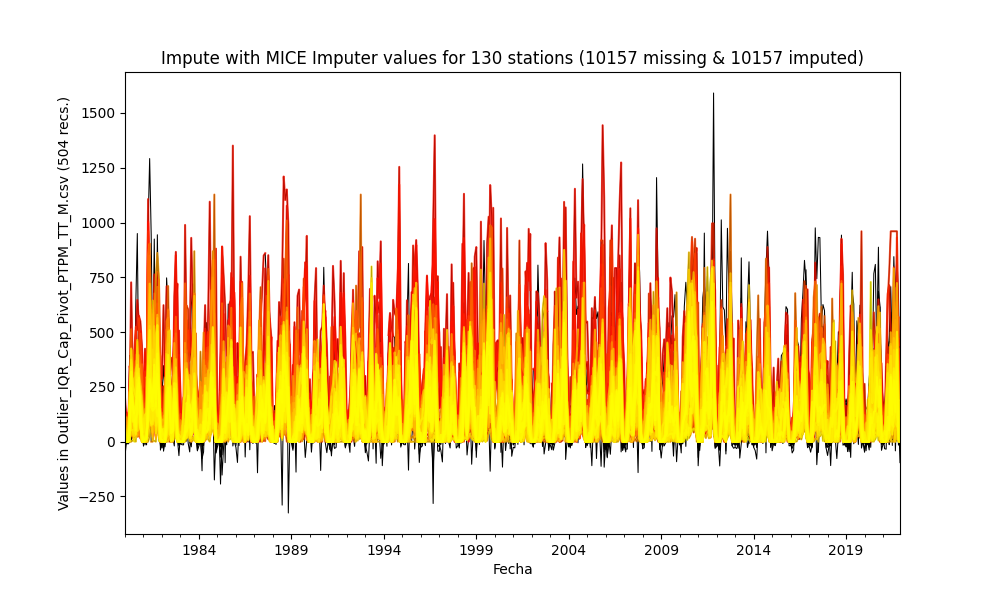
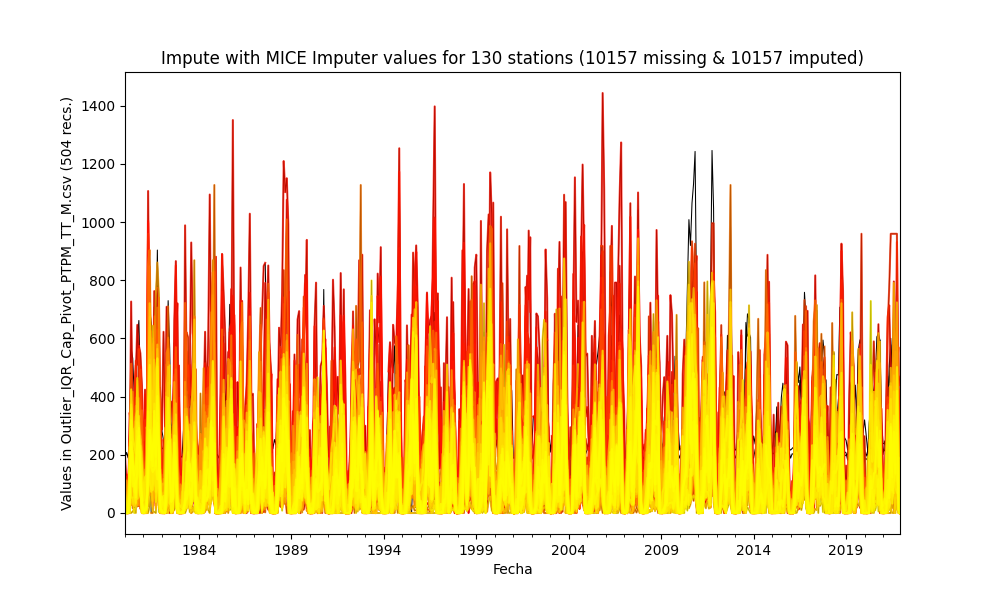
General update.

diff --git a/.src/Impute.py b/.src/Impute.py
@@ -38,6 +38,7 @@ show_plot = False
 only_included = False  # True: let the user run this script only for the stations included in the station_include array. False: process all the stations but not the ones in the station_exclude array.
 station_exclude = ['28017140', '25027020', '25027410', '25027490', '25027330', '25027390', '25027630', '25027360', '25027320', '16067010', '25027420']  # Use ['station1', 'station2', '...',]
 station_include = ['15015020', '15060050', '15060070', '15060080', '15060150']  # Use ['station1', 'station2', '...',]
+min_value = 0  # Minimum value for impute with Multivariate Imputation by Chained Equation - MICE from Scikit Learn. E.g.: 0 for rain, -inf for temperature.
 
 
 # Function for print and show results in a file
@@ -217,7 +218,7 @@ print_log('General statistics table - Imputed file', center_div=True)
 print_log(df_impute.describe().T.to_markdown(), center_div=True)  # .T for transpose
 
 # Method 8 - Impute missing values with Multivariate Imputation by Chained Equation - MICE from Scikit Learn
-imputer = IterativeImputer(estimator=linear_model.BayesianRidge(), n_nearest_features=None, imputation_order='ascending')
+imputer = IterativeImputer(estimator=linear_model.BayesianRidge(), n_nearest_features=5, initial_strategy='mean', min_value=min_value, imputation_order='ascending')
 column_headers = df.columns.values.tolist()
 index_list = list(df.index.values)
 df_impute = imputer.fit_transform(df)

diff --git a/.datasets/IDEAM_Impute/Impute_Outlier_IQR_Cap_Pivot_PTPM_TT_M.csv.md b/.datasets/IDEAM_Impute/Impute_Outlier_IQR_Cap_Pivot_PTPM_TT_M.csv.md
@@ -1,7 +1,7 @@
 ## Impute missing values in time series through statistical methods
 
 * Processed file: [D:/R.LTWB/.datasets/IDEAM_Outlier/Outlier_IQR_Cap_Pivot_PTPM_TT_M.csv](../IDEAM_EDA/Outlier_IQR_Cap_Pivot_PTPM_TT_M.csv)
-* Execution date: 2022-11-11 10:23:51.229419
+* Execution date: 2022-11-11 10:30:20.719539
 * Python version: 3.10.5 (tags/v3.10.5:f377153, Jun  6 2022, 16:14:13) [MSC v.1929 64 bit (AMD64)]
 * Python path: ['D:\\R.LTWB\\.src', 'D:\\R.LTWB', 'D:\\R.GISPython.wiki', 'D:\\R.GISPython', 'D:\\R.HydroTools.wiki']
 * matplotlib version: 3.6.0
@@ -1278,138 +1278,138 @@ General statistics table - Imputed file
 
 <div align="center">
 
-|          |   count |     mean |      std |         min |       25% |      50% |     75% |      max |
-|---------:|--------:|---------:|---------:|------------:|----------:|---------:|--------:|---------:|
-| 15015020 |     504 |  60.0857 |  71.6856 |  -21.477    |   1.58573 |  33.458  |  92.225 |  394.056 |
-| 15060050 |     504 |  88.1223 |  83.4191 |  -11.4148   |  13.3903  |  74      | 138.25  |  489.2   |
-| 15060070 |     504 | 104.722  | 100.303  |  -13.4353   |  17.9926  |  85      | 158.75  |  580.127 |
-| 15060080 |     504 |  98.6011 |  91.4522 |    0        |  15       |  83      | 149     |  520.264 |
-| 15060150 |     504 |  72.1262 |  80.4786 |    0        |   8       |  46.1    | 107.375 |  383     |
-| 15065040 |     504 |  66.6502 |  53.3787 |    0        |  18.0053  |  61.65   | 102.076 |  237.7   |
-| 16050240 |     504 | 177.105  | 120.162  |    0        |  88       | 159      | 242     |  792.155 |
-| 16060010 |     504 | 304.344  | 206.676  |    0        | 146.25    | 284.5    | 426.25  | 1005     |
-| 16070010 |     504 | 406.418  | 256.33   |    0        | 205       | 394      | 566.5   | 1444     |
-| 16070020 |     504 | 397.301  | 275.253  | -132.869    | 169.191   | 369.635  | 581.494 | 1591.05  |
-| 16070030 |     504 | 369.688  | 227.174  |    0        | 210.692   | 343.05   | 497     | 1351     |
-| 16070040 |     504 | 354.343  | 205.638  |    8        | 207.5     | 341.5    | 484.902 | 1173     |
-| 23210020 |     504 | 145.888  | 141.723  | -325.495    |  38.951   | 122.526  | 222.229 |  649     |
-| 23215050 |     504 | 235.319  | 210.202  |  -22.8967   |  75.875   | 189.791  | 333.375 | 1094.2   |
-| 23215060 |     504 | 145.918  | 102.969  |   -4.97328  |  60.9708  | 133.844  | 211.898 |  497.425 |
-| 25020090 |     504 | 163.326  | 142.712  |    0        |  44.925   | 140.7    | 247.125 |  808.61  |
-| 25020220 |     504 | 126.071  | 101.541  |    0        |  43.45    | 111.25   | 189.725 |  534     |
-| 25020230 |     504 | 164.14   | 139.97   |  -24.0654   |  55.75    | 133.75   | 240.5   |  799.943 |
-| 25020240 |     504 | 136.638  | 120.229  |    0        |  43       | 113.5    | 194.25  |  735     |
-| 25020250 |     504 | 142.901  | 118.54   |    0        |  48       | 118.45   | 209.35  |  644.3   |
-| 25020260 |     504 | 222.846  | 169.086  |    0        |  90       | 206      | 319.25  |  996.014 |
-| 25020270 |     504 | 170.036  | 145.094  |    0        |  48       | 136.5    | 263.25  |  627     |
-| 25020280 |     504 | 127.65   | 116.687  |   -5.01528  |  34.75    | 104      | 185.931 |  661.486 |
-| 25020650 |     504 | 156.947  | 165.658  | -112.501    |  32.925   | 119.1    | 231.05  |  959.998 |
-| 25020660 |     504 | 155.168  | 132.43   |    0        |  48.825   | 126      | 230     |  679     |
-| 25020670 |     504 | 147.453  | 128.72   |    0        |  33.75    | 118.5    | 241.125 |  727.269 |
-| 25020690 |     504 | 153.358  | 146.017  |    0        |  37       | 112      | 233.5   |  753     |
-| 25020870 |     504 | 155.885  | 134.889  |    0        |  45       | 136.5    | 232.25  |  835     |
-| 25020880 |     504 | 195.422  | 160.182  |    0        |  61.75    | 171.47   | 291     |  764     |
-| 25020890 |     504 | 158.182  | 128.56   |   -5.52062  |  49.75    | 135      | 247.061 |  593     |
-| 25020900 |     504 | 132.023  | 114.323  |    0        |  30       | 106.5    | 207.25  |  510     |
-| 25020920 |     504 | 137.773  | 155.516  |  -13.6867   |  33       |  90.5    | 192.025 |  918.023 |
-| 25021040 |     504 | 161.736  | 138.977  |    0        |  45       | 138.5    | 245.25  |  739     |
-| 25021090 |     504 | 161.039  | 140.389  |    0        |  42.358   | 129      | 249.456 |  680     |
-| 25021200 |     504 | 193.074  | 168.725  |    0        |  50.75    | 153      | 290     |  934     |
-| 25021240 |     504 | 169.907  | 147.9    |    0        |  46.875   | 141.85   | 265     |  696.6   |
-| 25021320 |     504 | 162.279  | 141.021  |    0        |  50       | 134      | 244     |  744     |
-| 25021380 |     504 | 169.115  | 139.342  |  -11.2129   |  54       | 142.296  | 260.359 |  724     |
-| 25021500 |     504 |  99.0213 |  74.5601 |    0        |  41       |  88      | 144.973 |  368     |
-| 25021540 |     504 | 180.113  | 144.292  |    0        |  68       | 149.5    | 264.775 |  721     |
-| 25021580 |     504 | 147.901  | 115.939  |  -16.3849   |  53.1902  | 128.041  | 214.033 |  569.101 |
-| 25021590 |     504 | 138.645  | 114.145  |  -22.1113   |  44.8991  | 118.107  | 209.385 |  543.855 |
-| 25021620 |     504 | 115.356  |  91.7848 | -152.351    |  45.75    | 101.5    | 161     |  534.242 |
-| 25021630 |     504 | 112.025  |  77.2013 |    0        |  50       | 101      | 166     |  370     |
-| 25021640 |     504 | 144.601  | 130.495  |   -9.64008  |  38.525   | 116.5    | 220.625 |  717     |
-| 25021650 |     504 | 130.75   | 123.103  |   -0.243837 |  35.2249  | 103.5    | 191.05  |  715.84  |
-| 25025090 |     504 | 163.36   | 134.005  |   -7.46037  |  53.003   | 136.25   | 245.05  |  609.3   |
-| 25025250 |     504 | 136.963  | 115.628  |   -9.47291  |  38.85    | 117.99   | 196.7   |  549.9   |
-| 25025300 |     504 | 109.841  |  91.9049 |  -35.2053   |  34.875   |  90.9    | 163.4   |  459.2   |
-| 25025330 |     504 | 173.46   | 132.829  |  -49.3723   |  66.725   | 151.663  | 262.5   |  693     |
-| 28010020 |     504 |  76.5867 |  77.532  |  -10.4633   |  15       |  57      | 120     |  478.212 |
-| 28010040 |     504 | 151.245  | 128.27   |    0        |  48.075   | 130.1    | 218.375 |  748.7   |
-| 28010070 |     504 | 117.492  | 111.632  |  -70.5972   |  30.75    |  97.8562 | 181     |  682.783 |
-| 28010090 |     504 |  92.9368 |  93.1213 |   -7.73381  |  10       |  73.5    | 138.11  |  520.861 |
-| 28010130 |     504 | 233.941  | 204.993  |  -91.4231   |  65.9922  | 193.653  | 344.25  | 1009     |
-| 28010140 |     504 | 134.226  | 130.017  | -116.376    |  28.6638  | 100.229  | 203.181 |  630     |
-| 28010200 |     504 |  83.2441 |  88.7909 |  -15.0382   |   8.025   |  56.7683 | 131.9   |  488.941 |
-| 28010280 |     504 |  63.3444 |  44.6551 |   -8.06218  |  24.902   |  60.0707 |  89.53  |  197.63  |
-| 28010340 |     504 |  98.99   |  91.986  |    0        |  16.975   |  82      | 152.25  |  457     |
-| 28010360 |     504 | 168.474  | 202.059  |  -27.0738   |  19.75    |  99.45   | 249.992 | 1127.8   |
-| 28010370 |     504 | 108.795  |  94.3056 |    0        |  26       |  88.5    | 171.25  |  508     |
-| 28015070 |     504 |  98.59   |  84.1853 |    0        |  28.475   |  88.4    | 151.225 |  456.1   |
-| 28020080 |     504 | 114.779  | 101.99   |   -2.22589  |  34.75    |  96      | 170.25  |  590.828 |
-| 28020150 |     504 | 108.322  |  87.3813 |  -14.713    |  41.7868  |  91      | 158.388 |  518     |
-| 28020230 |     504 | 130.519  | 113.689  |  -47.3926   |  35       | 116.537  | 188.16  |  675.7   |
-| 28020310 |     504 | 189.487  | 140.588  |    0        |  74.7368  | 162.966  | 279.125 |  723     |
-| 28020410 |     504 | 109.061  |  99.1266 |  -34.6624   |  29       |  89      | 158     |  565.7   |
-| 28020420 |     504 | 120.323  | 105.004  |    0        |  35       | 102      | 181.054 |  567     |
-| 28020440 |     504 | 126.246  | 101.342  |    0        |  45       | 108.9    | 189.5   |  610.6   |
-| 28020460 |     504 | 129.484  | 108.783  |    0        |  46.75    | 106.5    | 194     |  591     |
-| 28020590 |     504 | 105.127  |  89.7036 |   -6.51495  |  30.5     |  86      | 156     |  542     |
-| 28020600 |     504 | 113.015  |  96.231  |  -14.0663   |  35.275   |  90.5    | 174.134 |  552.088 |
-| 28025020 |     504 | 110.611  |  81.795  |    0        |  42.075   | 104.8    | 164.45  |  421.2   |
-| 28025040 |     504 |  86.7153 |  77.064  |  -39.8853   |  26.15    |  70.0794 | 131.091 |  367.844 |
-| 28025070 |     504 | 131.555  | 104.05   |    0        |  47.95    | 114.7    | 194.45  |  550.8   |
-| 28025080 |     504 | 126.652  |  95.7154 |    0        |  47.25    | 113.578  | 189.637 |  496.9   |
-| 28025090 |     504 | 123.832  |  97.1567 |    0        |  45.55    | 110.5    | 186.375 |  504.6   |
-| 28030190 |     504 |  93.3151 |  86.66   |    0        |  14.475   |  82.8    | 144.55  |  450.8   |
-| 28030220 |     504 |  85.303  |  87.5998 |  -18.8001   |  10       |  63      | 136.664 |  497.601 |
-| 28035010 |     504 | 110.935  |  90.9513 |    0        |  30.475   |  96.5    | 169     |  479.6   |
-| 28035020 |     504 |  97.0834 |  83.262  |   -3.89952  |  21.625   |  83.6    | 150.209 |  464.2   |
-| 28035040 |     504 | 106.808  |  83.5239 |    0        |  34       |  97.45   | 153.45  |  425     |
-| 28040010 |     504 | 177.7    | 149.703  |    0        |  53.75    | 157.5    | 261.25  |  869.048 |
-| 28040030 |     504 | 116.286  | 120.791  |    0        |  29.5     |  90      | 158.25  |  681.291 |
-| 28040060 |     504 | 115.09   | 118.587  | -282.12     |  30       |  90.7263 | 181.533 |  602.735 |
-| 28040070 |     504 | 111.913  |  88.1718 |    0        |  40       | 100      | 165     |  415     |
-| 28040100 |     504 | 144.244  | 107.296  |    0        |  54       | 136.5    | 209     |  635.172 |
-| 28040140 |     504 |  96.2506 |  85.4445 |    0        |  24.4091  |  76.55   | 145     |  435     |
-| 28040150 |     504 | 115.128  |  90.9266 |    0        |  43.75    | 107      | 164     |  541.15  |
-| 28040170 |     504 | 103.748  | 115.607  | -141.134    |  22.5055  |  78.0594 | 163.365 |  559.115 |
-| 28040200 |     504 |  94.9796 |  68.9699 |  -30.3063   |  36       |  93.632  | 138.207 |  374     |
-| 28040270 |     504 | 106.704  |  88.4903 |    0        |  31.9649  |  96.5    | 158.25  |  512.18  |
-| 28040300 |     504 | 115.731  |  96.6793 |    0        |  41       |  97.5    | 163     |  564     |
-| 28040310 |     504 | 117.409  |  94.0441 |  -27.8152   |  40.75    | 107      | 169.25  |  521     |
-| 28040320 |     504 | 124.584  |  96.1615 |    0        |  50.75    | 107      | 174     |  491     |
-| 28040350 |     504 | 110.307  |  98.2992 |    0        |  31.8     |  93.6    | 160.8   |  578     |
-| 28040360 |     504 | 124.389  |  91.6114 |    0        |  52.75    | 116.5    | 174.25  |  552.693 |
-| 28040400 |     504 | 103.69   |  81.9768 |   -7.35568  |  36.7651  |  89      | 147.838 |  398     |
-| 28045010 |     504 | 143.646  | 122.274  |  -71.5829   |  25.2025  | 130.349  | 232.676 |  502.1   |
-| 29060030 |     504 | 111.92   | 119.012  |    0        |   5.75    |  84.1    | 174.25  |  652.526 |
-| 29060040 |     504 | 118.805  | 114.009  |    0        |  27.5     |  95.5    | 172.25  |  639.993 |
-| 29060060 |     504 | 214.668  | 188.579  |    0        |  50       | 183      | 324.882 |  944     |
-| 29060070 |     504 | 198.577  | 159.051  |    0        |  61       | 179      | 306     |  927     |
-| 29060090 |     504 | 109.81   |  77.6537 |    0        |  42.75    | 107      | 168     |  382     |
-| 29060100 |     504 | 130.562  | 109.441  |    0        |  40       | 117.5    | 189     |  665     |
-| 29060120 |     504 |  30.2694 |  55.9905 |    0        |   0       |   6      |  30     |  303.921 |
-| 29060140 |     504 | 131.076  | 151.01   |    0        |   7.75    |  86.5    | 201     |  826.16  |
-| 29060150 |     504 | 136.877  | 133.431  |    0        |  23.5     | 103      | 221     |  737.271 |
-| 29060160 |     504 |  84.0109 | 103.099  |    0        |   0       |  42.2    | 135.95  |  564.2   |
-| 29060170 |     504 |  79.0424 |  92.4026 |    0        |   0       |  46.5    | 134.075 |  505     |
-| 29060180 |     504 | 115.899  | 148.068  |    0        |   0       |  68.7592 | 166.5   |  796.306 |
-| 29060190 |     504 | 107.172  | 113.844  |  -45.6273   |   8.89448 |  76.7521 | 162.206 |  643.811 |
-| 29060200 |     504 | 118.596  | 114.893  |  -30.816    |  22       |  98.5    | 179.131 |  637     |
-| 29060210 |     504 |  69.6776 |  83.4092 |  -14.8502   |   1.075   |  38.95   | 108.15  |  453.599 |
-| 29060220 |     504 | 108.173  | 145.014  | -110.972    |   0       |  64      | 166.22  |  863.413 |
-| 29060230 |     504 |  99.5611 | 105.128  |  -27.4949   |   6       |  74.866  | 157     |  549     |
-| 29060240 |     504 | 103.282  | 126.509  |  -48.2195   |   0       |  67      | 170     |  720.851 |
-| 29060250 |     504 |  82.9484 | 101.897  |    0        |   0       |  51.1    | 121.775 |  546.36  |
-| 29060270 |     504 |  87.0153 |  99.4899 |    0        |   0       |  56.0543 | 132     |  519     |
-| 29060280 |     504 |  69.7379 |  87.5525 |   -3.86506  |   0       |  35.55   | 110.625 |  482.9   |
-| 29060290 |     504 | 110.958  | 116.963  |  -64.3907   |   9.8     |  86      | 173.25  |  627     |
-| 29060310 |     504 |  78.6707 | 109.789  |    0        |   0       |  33      | 128     |  604.211 |
-| 29060330 |     504 | 127.242  | 133.918  |  -40.6646   |  12       |  97.6155 | 201.151 |  615     |
-| 29060340 |     504 | 193.298  | 165.214  |    0        |  53.5     | 166.5    | 284.035 |  875     |
-| 29060350 |     504 | 105.238  | 113.531  |  -17.1848   |   3.15671 |  75      | 168.119 |  626.681 |
-| 29060550 |     504 |  91.7633 | 103.287  |  -30.8429   |   0       |  66.5    | 150.25  |  595.759 |
-| 29060560 |     504 |  98.673  |  97.4833 |  -64.1392   |  20.7783  |  72.5    | 152.191 |  553.117 |
-| 29065010 |     504 |  93.8475 |  94.577  |  -76.8448   |  17.7536  |  75.3686 | 144.757 |  422.748 |
-| 29065020 |     504 |  99.8981 | 105.313  |   -6.64146  |   8.3     |  70.4    | 155.875 |  563.1   |
-| 29065030 |     504 | 117.045  | 117.013  |  -13.2227   |  11.975   |  93.4744 | 178.775 |  637.9   |
+|          |   count |     mean |      std |   min |       25% |      50% |      75% |      max |
+|---------:|--------:|---------:|---------:|------:|----------:|---------:|---------:|---------:|
+| 15015020 |     504 |  60.2634 |  72.3221 |     0 |   1.175   |  30.2437 |  92.4    |  394.056 |
+| 15060050 |     504 |  87.9407 |  83.0538 |     0 |  14.875   |  74      | 138.05   |  489.2   |
+| 15060070 |     504 |  99.5628 |  94.6656 |     0 |  23.3087  |  84.7922 | 145.069  |  580.127 |
+| 15060080 |     504 |  98.4645 |  91.3294 |     0 |  15       |  83      | 148.25   |  520.264 |
+| 15060150 |     504 |  72.1262 |  80.4786 |     0 |   8       |  46.1    | 107.375  |  383     |
+| 15065040 |     504 |  64.74   |  49.7646 |     0 |  24.975   |  57.3316 |  93.3915 |  237.7   |
+| 16050240 |     504 | 178.47   | 113.88   |     0 |  91       | 160.72   | 241.25   |  792.155 |
+| 16060010 |     504 | 304.344  | 206.676  |     0 | 146.25    | 284.5    | 426.25   | 1005     |
+| 16070010 |     504 | 404.803  | 254.378  |     0 | 214.5     | 388.517  | 560.75   | 1444     |
+| 16070020 |     504 | 407.32   | 222.629  |     0 | 231.512   | 372.222  | 540.828  | 1246.48  |
+| 16070030 |     504 | 392.442  | 212.08   |     0 | 246.991   | 363.312  | 510.038  | 1351     |
+| 16070040 |     504 | 353.899  | 203.557  |     8 | 215       | 341      | 476.5    | 1173     |
+| 23210020 |     504 | 154.231  | 119.887  |     0 |  58.95    | 133.248  | 215.126  |  649     |
+| 23215050 |     504 | 234.968  | 208.891  |     0 |  76.3     | 189.8    | 332.625  | 1094.2   |
+| 23215060 |     504 | 134.694  |  87.7659 |     0 |  60.5967  | 125.056  | 190.282  |  422     |
+| 25020090 |     504 | 163.268  | 142.538  |     0 |  44.925   | 142.5    | 246.7    |  808.61  |
+| 25020220 |     504 | 126.067  | 101.539  |     0 |  43.45    | 111.25   | 189.725  |  534     |
+| 25020230 |     504 | 164.719  | 139.181  |     0 |  56.675   | 135      | 239.1    |  799.943 |
+| 25020240 |     504 | 136.547  | 120.146  |     0 |  43       | 113.5    | 194      |  735     |
+| 25020250 |     504 | 143.121  | 118.512  |     0 |  48.15    | 118.45   | 209.35   |  644.3   |
+| 25020260 |     504 | 223.22   | 169.362  |     0 |  90       | 208      | 319      |  996.014 |
+| 25020270 |     504 | 168.935  | 143.958  |     0 |  48       | 136.5    | 262      |  627     |
+| 25020280 |     504 | 128.368  | 117.032  |     0 |  37.525   | 104      | 186      |  661.486 |
+| 25020650 |     504 | 152.935  | 154.863  |     0 |  39.65    | 121.406  | 217.132  |  959.998 |
+| 25020660 |     504 | 155.3    | 132.332  |     0 |  49.725   | 126      | 230      |  679     |
+| 25020670 |     504 | 148.858  | 127.743  |     0 |  35.75    | 122      | 241.125  |  727.269 |
+| 25020690 |     504 | 153.358  | 146.017  |     0 |  37       | 112      | 233.5    |  753     |
+| 25020870 |     504 | 155.94   | 134.816  |     0 |  45       | 136.5    | 229.841  |  835     |
+| 25020880 |     504 | 196.261  | 160.231  |     0 |  61.75    | 172      | 296      |  764     |
+| 25020890 |     504 | 158.249  | 127.603  |     0 |  51       | 135.223  | 247      |  593     |
+| 25020900 |     504 | 132.043  | 114.103  |     0 |  30       | 106.5    | 207      |  510     |
+| 25020920 |     504 | 135.8    | 150.289  |     0 |  33.6708  |  97.85   | 183.125  |  918.023 |
+| 25021040 |     504 | 161.93   | 138.952  |     0 |  45       | 139      | 245.25   |  739     |
+| 25021090 |     504 | 160.634  | 141.261  |     0 |  43.425   | 127.363  | 243.5    |  680     |
+| 25021200 |     504 | 192.161  | 166.687  |     0 |  51       | 153      | 290.25   |  934     |
+| 25021240 |     504 | 169.907  | 147.9    |     0 |  46.875   | 141.85   | 265      |  696.6   |
+| 25021320 |     504 | 162.564  | 141.009  |     0 |  50       | 134      | 244.25   |  744     |
+| 25021380 |     504 | 170.117  | 139.272  |     0 |  54.75    | 141      | 263.5    |  724     |
+| 25021500 |     504 |  99.2167 |  74.1709 |     0 |  41       |  88      | 145      |  368     |
+| 25021540 |     504 | 180.153  | 144.049  |     0 |  68       | 149.5    | 265      |  721     |
+| 25021580 |     504 | 148.4    | 102.835  |     0 |  61.1617  | 133      | 214.214  |  494     |
+| 25021590 |     504 | 128.477  |  94.4378 |     0 |  50.2685  | 115.321  | 189.957  |  512.2   |
+| 25021620 |     504 | 116.422  |  88.9622 |     0 |  47.5     | 103      | 161      |  534.242 |
+| 25021630 |     504 | 110.769  |  75.5572 |     0 |  53.75    |  99.181  | 161.25   |  370     |
+| 25021640 |     504 | 146.924  | 128.902  |     0 |  42.9     | 119.15   | 214.5    |  717     |
+| 25021650 |     504 | 132.514  | 122.423  |     0 |  38.675   | 106      | 193.094  |  715.84  |
+| 25025090 |     504 | 162.599  | 132.515  |     0 |  52       | 135.95   | 245.05   |  609.3   |
+| 25025250 |     504 | 135.736  | 112.905  |     0 |  39.875   | 118.85   | 196.6    |  549.9   |
+| 25025300 |     504 | 110.199  |  91.3332 |     0 |  36       |  91.2764 | 163.4    |  459.2   |
+| 25025330 |     504 | 168.174  | 121.172  |     0 |  71.622   | 150.918  | 249.54   |  693     |
+| 28010020 |     504 |  80.6015 |  79.5595 |     0 |  15.1638  |  59.7285 | 125.5    |  478.212 |
+| 28010040 |     504 | 151.706  | 128.282  |     0 |  48.075   | 130.1    | 219.875  |  748.7   |
+| 28010070 |     504 | 115.664  | 102.742  |     0 |  35.975   |  99.3    | 177.878  |  581     |
+| 28010090 |     504 |  92.3432 |  92.2099 |     0 |  10       |  73.5    | 137.25   |  520.861 |
+| 28010130 |     504 | 226.357  | 189.512  |     0 |  82.306   | 191.221  | 327.658  | 1009     |
+| 28010140 |     504 | 136.017  | 114.135  |     0 |  43.1872  | 110.855  | 197.314  |  630     |
+| 28010200 |     504 |  83.1173 |  87.8538 |     0 |   8.35    |  59.1    | 130.1    |  488.941 |
+| 28010280 |     504 |  55.6933 |  47.0121 |     0 |  14.299   |  49.3248 |  79.2619 |  265.439 |
+| 28010340 |     504 |  99.0554 |  91.7658 |     0 |  19.5     |  82      | 152.776  |  457     |
+| 28010360 |     504 | 170.752  | 199.859  |     0 |  23.15    | 109.5    | 248.482  | 1127.8   |
+| 28010370 |     504 | 108.785  |  94.2925 |     0 |  26       |  88.5    | 172.25   |  508     |
+| 28015070 |     504 |  98.1716 |  83.9491 |     0 |  28.475   |  87.95   | 150.5    |  456.1   |
+| 28020080 |     504 | 114.567  | 101.474  |     0 |  35       |  94      | 168.5    |  590.828 |
+| 28020150 |     504 | 108.574  |  84.3252 |     0 |  45.75    |  91.2531 | 157.25   |  518     |
+| 28020230 |     504 | 128.496  | 109.753  |     0 |  34.7913  | 115.3    | 192.369  |  675.7   |
+| 28020310 |     504 | 175.357  | 128.828  |     0 |  70.85    | 153.008  | 247.696  |  723     |
+| 28020410 |     504 | 107.102  |  97.0697 |     0 |  29.95    |  86.4765 | 155      |  565.7   |
+| 28020420 |     504 | 120.971  | 104.292  |     0 |  40.7512  | 102      | 175.5    |  567     |
+| 28020440 |     504 | 126.025  | 101.141  |     0 |  45       | 108      | 189.5    |  610.6   |
+| 28020460 |     504 | 129.128  | 108.428  |     0 |  47       | 105      | 193.172  |  591     |
+| 28020590 |     504 | 104.994  |  89.2433 |     0 |  31.375   |  86      | 157.25   |  542     |
+| 28020600 |     504 | 112.693  |  95.7135 |     0 |  35.275   |  89.5    | 172.425  |  552.088 |
+| 28025020 |     504 | 110.817  |  81.7328 |     0 |  42.325   | 104.8    | 165.225  |  421.2   |
+| 28025040 |     504 |  96.9106 |  70.5634 |     0 |  41.4     |  84.4128 | 131.281  |  360.6   |
+| 28025070 |     504 | 131.555  | 104.05   |     0 |  47.95    | 114.7    | 194.45   |  550.8   |
+| 28025080 |     504 | 124.352  |  91.0424 |     0 |  47.9     | 112.278  | 181.025  |  496.9   |
+| 28025090 |     504 | 123.644  |  97.1378 |     0 |  45.55    | 110.3    | 186.375  |  504.6   |
+| 28030190 |     504 |  93.3151 |  86.66   |     0 |  14.475   |  82.8    | 144.55   |  450.8   |
+| 28030220 |     504 |  86.4582 |  86.7227 |     0 |  11.9     |  65.9786 | 135.228  |  497.601 |
+| 28035010 |     504 | 110.316  |  89.7967 |     0 |  31.0302  |  95.8326 | 167.2    |  479.6   |
+| 28035020 |     504 |  97.4943 |  83.1049 |     0 |  22.45    |  84.7    | 150.2    |  464.2   |
+| 28035040 |     504 | 106.91   |  83.4567 |     0 |  35.5     |  98.45   | 153.45   |  425     |
+| 28040010 |     504 | 177.7    | 149.703  |     0 |  53.75    | 157.5    | 261.25   |  869.048 |
+| 28040030 |     504 | 115.699  | 120.478  |     0 |  29.5     |  90      | 157.562  |  681.291 |
+| 28040060 |     504 | 100.889  |  66.4684 |     0 |  52.8965  |  94.8815 | 135.805  |  500     |
+| 28040070 |     504 | 112.423  |  88.1757 |     0 |  40       | 100      | 165      |  415     |
+| 28040100 |     504 | 143.886  | 107.071  |     0 |  54       | 136      | 205.5    |  635.172 |
+| 28040140 |     504 |  96.5688 |  85.4262 |     0 |  25       |  76.9    | 145.592  |  435     |
+| 28040150 |     504 | 115.494  |  90.8431 |     0 |  43.75    | 107.959  | 160.5    |  541.15  |
+| 28040170 |     504 | 123.555  |  88.5562 |     0 |  43.9602  | 113.952  | 180.172  |  505     |
+| 28040200 |     504 |  99.4382 |  61.6402 |     0 |  50.5865  |  96.4335 | 136.963  |  374     |
+| 28040270 |     504 | 107.172  |  88.1654 |     0 |  32       |  97.4461 | 157.25   |  512.18  |
+| 28040300 |     504 | 115.035  |  96.2823 |     0 |  41.75    |  96.5    | 162      |  564     |
+| 28040310 |     504 | 116.678  |  88.5524 |     0 |  45.9084  | 105.525  | 165.504  |  521     |
+| 28040320 |     504 | 124.296  |  95.7867 |     0 |  51       | 106.5    | 172.25   |  491     |
+| 28040350 |     504 | 110.307  |  98.2992 |     0 |  31.8     |  93.6    | 160.8    |  578     |
+| 28040360 |     504 | 124.347  |  91.5696 |     0 |  52.75    | 116.5    | 174.25   |  552.693 |
+| 28040400 |     504 | 103.582  |  77.6801 |     0 |  43.4427  |  92.9797 | 144.03   |  398     |
+| 28045010 |     504 | 131.061  | 105.406  |     0 |  39.7656  | 116.221  | 198.108  |  502.1   |
+| 29060030 |     504 | 112.006  | 119.001  |     0 |   5.75    |  85.1    | 174.25   |  652.526 |
+| 29060040 |     504 | 118.532  | 113.873  |     0 |  27.5     |  96.2548 | 171.25   |  639.993 |
+| 29060060 |     504 | 214.281  | 187.308  |     0 |  53.75    | 181.5    | 324      |  944     |
+| 29060070 |     504 | 198.66   | 158.979  |     0 |  61       | 179      | 306      |  927     |
+| 29060090 |     504 | 109.681  |  77.6024 |     0 |  42.75    | 106.5    | 168      |  382     |
+| 29060100 |     504 | 130.562  | 109.441  |     0 |  40       | 117.5    | 189      |  665     |
+| 29060120 |     504 |  30.2694 |  55.9905 |     0 |   0       |   6      |  30      |  303.921 |
+| 29060140 |     504 | 131.164  | 150.985  |     0 |   7.75    |  88      | 201      |  826.16  |
+| 29060150 |     504 | 135.312  | 132.318  |     0 |  22       | 103      | 217.25   |  737.271 |
+| 29060160 |     504 |  83.6991 | 102.814  |     0 |   0       |  43.05   | 135.95   |  564.2   |
+| 29060170 |     504 |  78.9131 |  92.4002 |     0 |   0       |  46.5    | 134.075  |  505     |
+| 29060180 |     504 | 116.305  | 148.02   |     0 |   0       |  71      | 166.652  |  796.306 |
+| 29060190 |     504 | 109.786  | 113.439  |     0 |  11.9415  |  82.5    | 174.085  |  643.811 |
+| 29060200 |     504 | 119.887  | 114.037  |     0 |  24.5     | 102      | 180.25   |  637     |
+| 29060210 |     504 |  69.7575 |  83.3399 |     0 |   1.175   |  38.95   | 108.15   |  453.599 |
+| 29060220 |     504 | 114.236  | 126.75   |     0 |   0       |  82.0066 | 178.372  |  799.53  |
+| 29060230 |     504 | 104.197  | 101.524  |     0 |  11.5834  |  82.8179 | 160.25   |  549     |
+| 29060240 |     504 | 103.468  | 125.29   |     0 |   0       |  71.8998 | 167.448  |  720.851 |
+| 29060250 |     504 |  82.9831 | 101.426  |     0 |   0       |  52.1    | 122.95   |  546.36  |
+| 29060270 |     504 |  86.9245 |  99.4937 |     0 |   0       |  56      | 132      |  519     |
+| 29060280 |     504 |  69.8069 |  86.8597 |     0 |   0       |  36.2    | 111.075  |  482.9   |
+| 29060290 |     504 | 110.931  | 115.231  |     0 |   7.84685 |  88.7034 | 166.336  |  627     |
+| 29060310 |     504 |  78.6707 | 109.789  |     0 |   0       |  33      | 128      |  604.211 |
+| 29060330 |     504 | 131.191  | 124.812  |     0 |  18       | 108      | 203.123  |  615     |
+| 29060340 |     504 | 192.625  | 164.319  |     0 |  58.75    | 165.5    | 278.819  |  875     |
+| 29060350 |     504 | 105.61   | 112.371  |     0 |   5.55    |  75      | 170.025  |  626.681 |
+| 29060550 |     504 |  93.2769 | 101.325  |     0 |   4.85704 |  69      | 143.045  |  595.759 |
+| 29060560 |     504 |  97.6133 |  95.2206 |     0 |  21.9312  |  73      | 150      |  553.117 |
+| 29065010 |     504 |  83.3384 |  72.9577 |     0 |  21.9608  |  67.8245 | 122.361  |  366.7   |
+| 29065020 |     504 | 100.426  | 105.182  |     0 |   8.65    |  72.1    | 157.125  |  563.1   |
+| 29065030 |     504 | 118.311  | 116.622  |     0 |  14.475   |  98.1    | 178.036  |  637.9   |
 
 </div>
 
